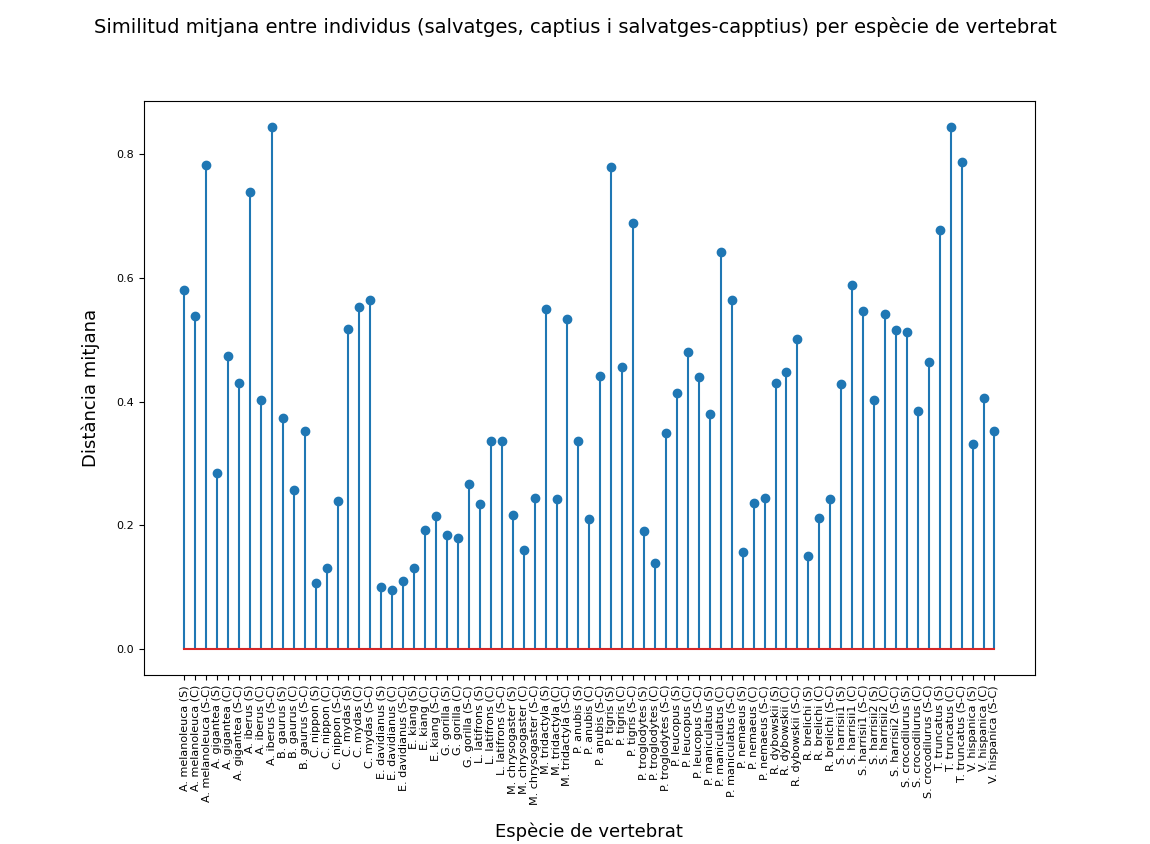
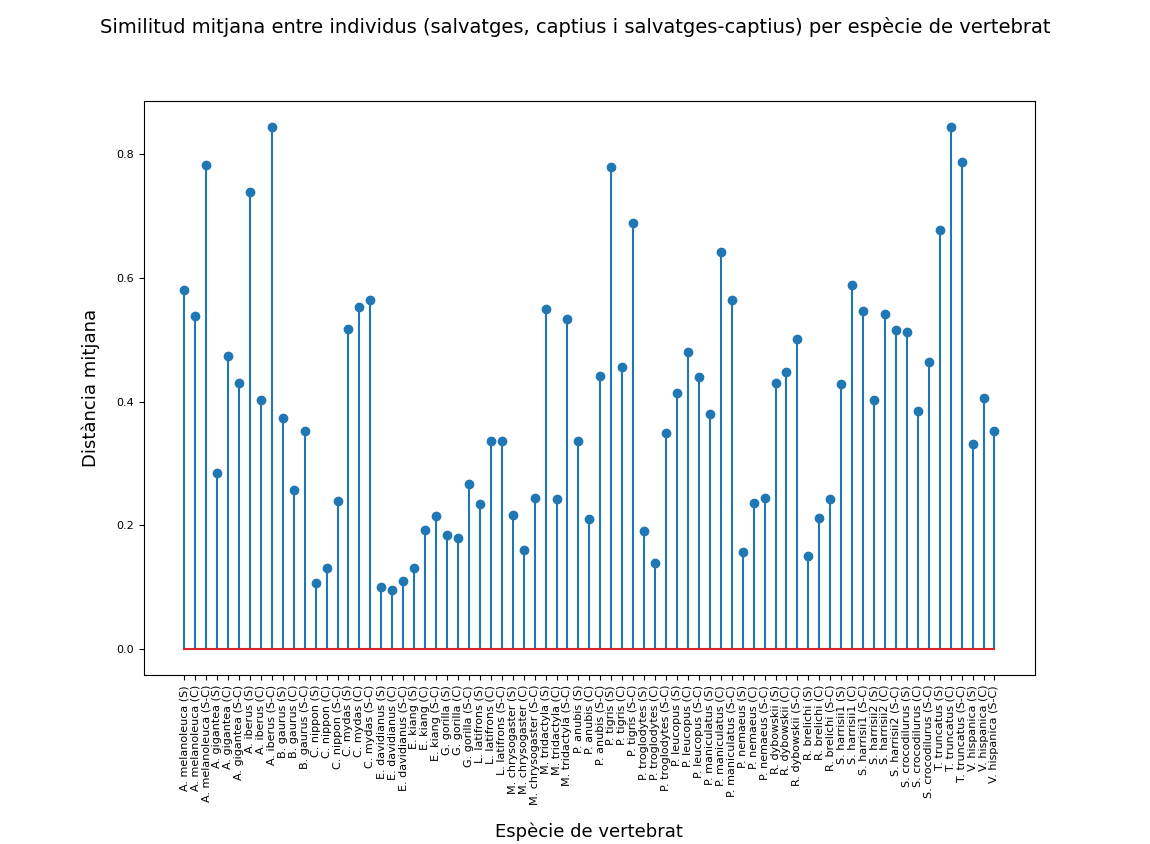
Arey: Correcció d'un error de format en el codi per generar la llegenda de l'stemplot.

Changed region(s): [[0.0913, 0.0, 0.913, 0.0616]]

diff --git a/show_functions.py b/show_functions.py
@@ -47,7 +47,7 @@ class Ploter(abc.ABC):
         ax_stem.set_ylabel('Distància mitjana', fontsize=13, labelpad=12)
         ax_stem.set_xlabel('Espècie de vertebrat', fontsize=13, labelpad=12)
 
-        plt.suptitle('Similitud mitjana entre individus (salvatges, captius i salvatges-capptius) per espècie de '
+        plt.suptitle('Similitud mitjana entre individus (salvatges, captius i salvatges-captius) per espècie de '
                      'vertebrat', fontsize=14)
         plt.show()
 
